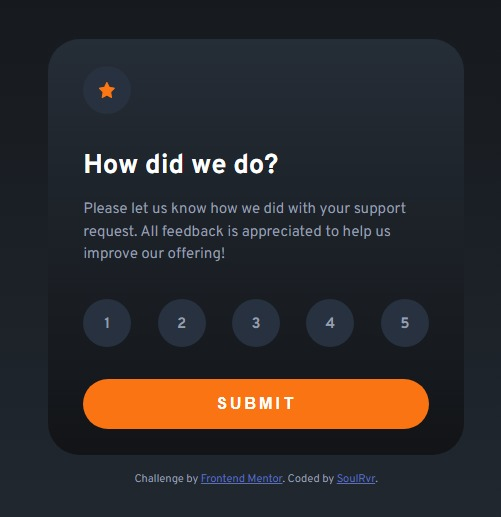
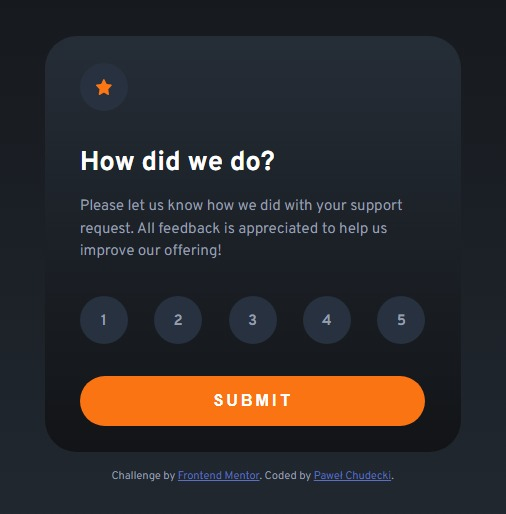
update

diff --git a/index.html b/index.html
@@ -61,7 +61,10 @@
       Challenge by
       <a href="https://www.frontendmentor.io?ref=challenge" target="_blank"
         >Frontend Mentor</a
-      >. Coded by <a href="#">SoulRvr</a>.
+      >. Coded by
+      <a href="https://www.frontendmentor.io/profile/SoulRvr29"
+        >Paweł Chudecki</a
+      >.
     </footer>
   </body>
 </html>

diff --git a/style.css b/style.css
@@ -44,7 +44,7 @@ h1 {
   margin: 1rem;
   max-width: 26rem;
   height: 26rem;
-  padding: 2.2rem;
+  padding: min(8vw, 2.2rem);
   border-radius: 2rem;
   background-color: var(--Dark-Blue);
   background-image: linear-gradient(
